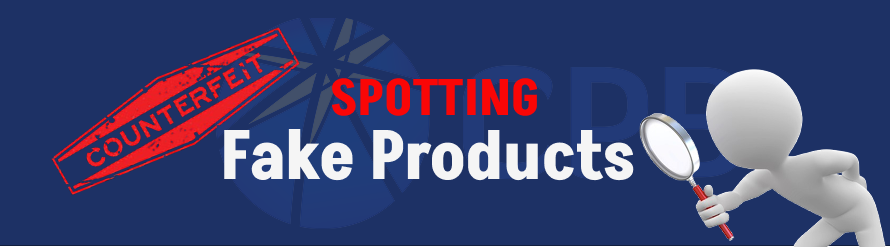
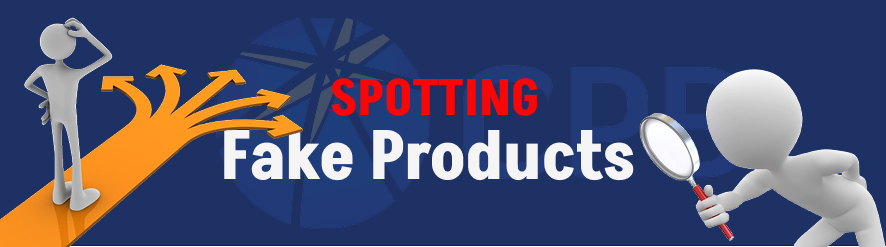
commit

diff --git a/news/index.php b/news/index.php
@@ -355,6 +355,34 @@ if (isset($_POST['form-contact'])) {
 
                     </div>
                 </div>
+
+                <div class="col-lg-4 mb-3">
+                    <div class="news-card shadow-sm">
+                        <div class="news-card-image">
+
+                            <img src="../assets/images/news/fake-products.png"
+                                alt="Spotting Fake Products">
+                        </div>
+                        <div class="news-card-text">
+                            <h2>
+                            Fake or Real? The Truth Behind Counterfeit Products
+
+                            </h2>
+                            <p class="text mb-0 pb-0">
+                            Counterfeit goods are a growing concern, deceiving consumers and harming legitimate
+                            businesses. From electronics and designer clothing to cosmetics and pharmaceuticals, fake
+                            products pose significant risks, including financial loss, health hazards, and compromised
+                            safety. Identifying counterfeit goods is essential for protecting your consumer rights and
+                            making informed purchasing decisions.
+                            </p>
+                            <div class="news-card-btn mt-4 mb-2 text-end">
+                                <a href="spotting-fake-products.php" class="news-alert-btn">Read
+                                    More</a>
+                            </div>
+                        </div>
+
+                    </div>
+                </div>
             </div>
         </div>
     </section>

diff --git a/index.php b/index.php
@@ -306,6 +306,25 @@ $feedbacks = findAll("feedbacks");
             <div class="row">
                 <div class="col-lg-12">
                     <div class="news-slick slick-slider  ">
+                    <div>
+                            <div class="home-alert d-flex align-items-center ">
+                                <div class="d-flex flex-lg-row flex-column align-items-center">
+                                    <div class="announcement-iameg" style="min-width:280px">
+                                        <img src="assets/images/cpb-announcement.png" alt="Festive Shopping Tips"
+                                            class="img-fluid cpb-announcement">
+                                    </div>
+                                    <div class="home-alert-text ms-lg-4">
+                                        <h2 class="mb-3">Fake or Real? </h2>
+                                        <div>
+                                            <a href="news/spotting-fake-products.php">
+                                            The Truth Behind Counterfeit Products
+                                                <span><i class="bi bi-chevron-double-right"></i></span>
+                                            </a>
+                                        </div>
+                                    </div>
+                                </div>
+                            </div>
+                        </div>
                         <div>
                             <div class="home-alert d-flex align-items-center ">
                                 <div class="d-flex flex-lg-row flex-column align-items-center">

diff --git a/news/spotting-fake-products.php b/news/spotting-fake-products.php
@@ -82,8 +82,9 @@ if (isset($_POST['form-contact'])) {
 
                     <div class="px-lg-4 mx-2 px-3">
                         <h1 class="news-heading text-uppercase  my-3">
-                            Spotting Fake Products:
-                            <br class="d-lg-block d-none"> <span class="text-alert">A Consumer’s Guide</span>
+                        Fake or Real?
+                            <br class="d-lg-block d-none"> <span class="text-alert"> The Truth Behind Counterfeit Products
+                            </span>
                         </h1>
 
 
